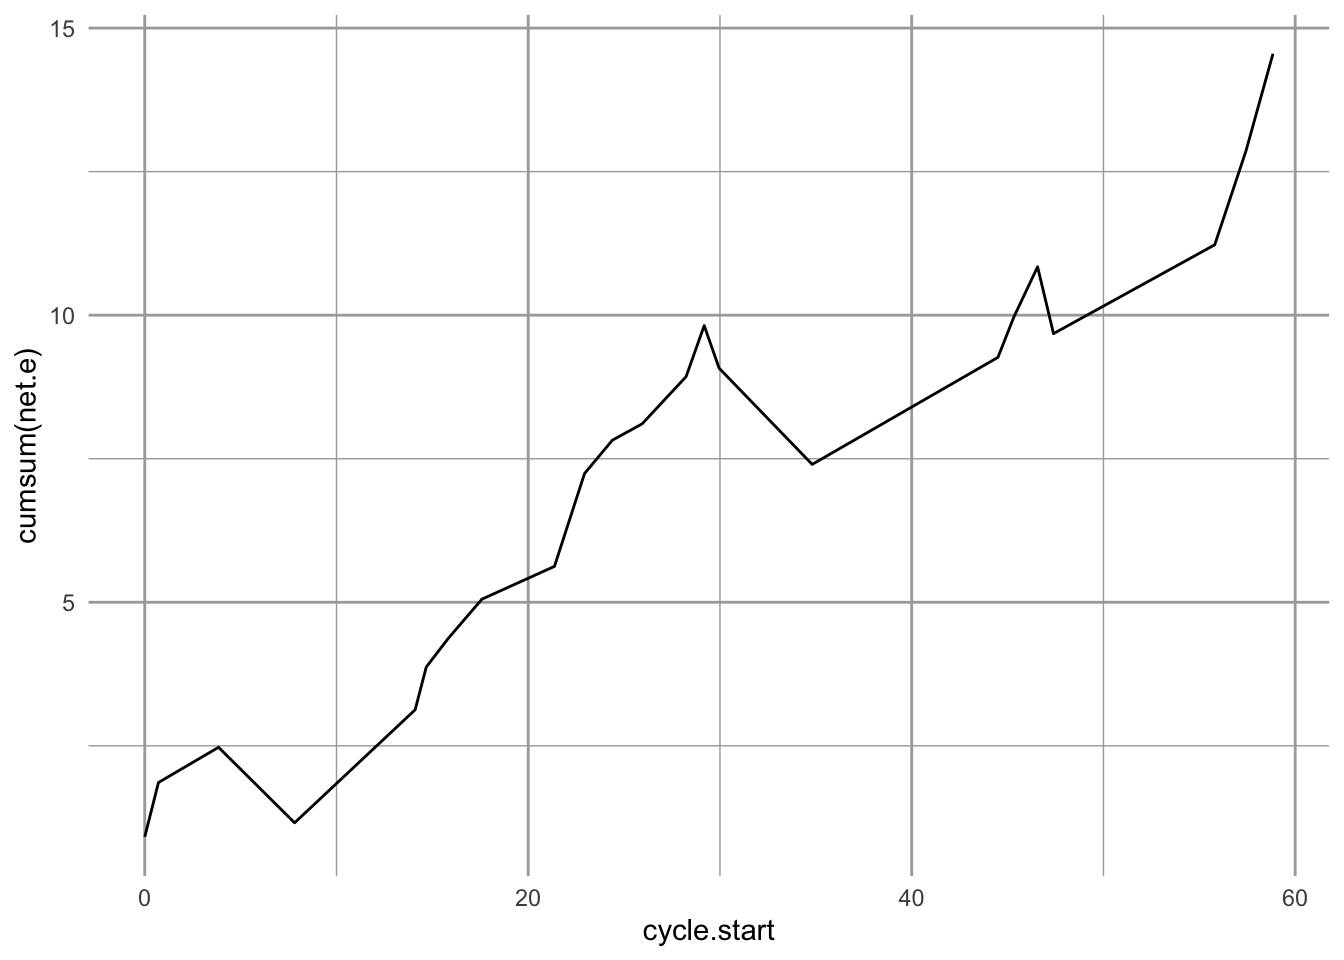
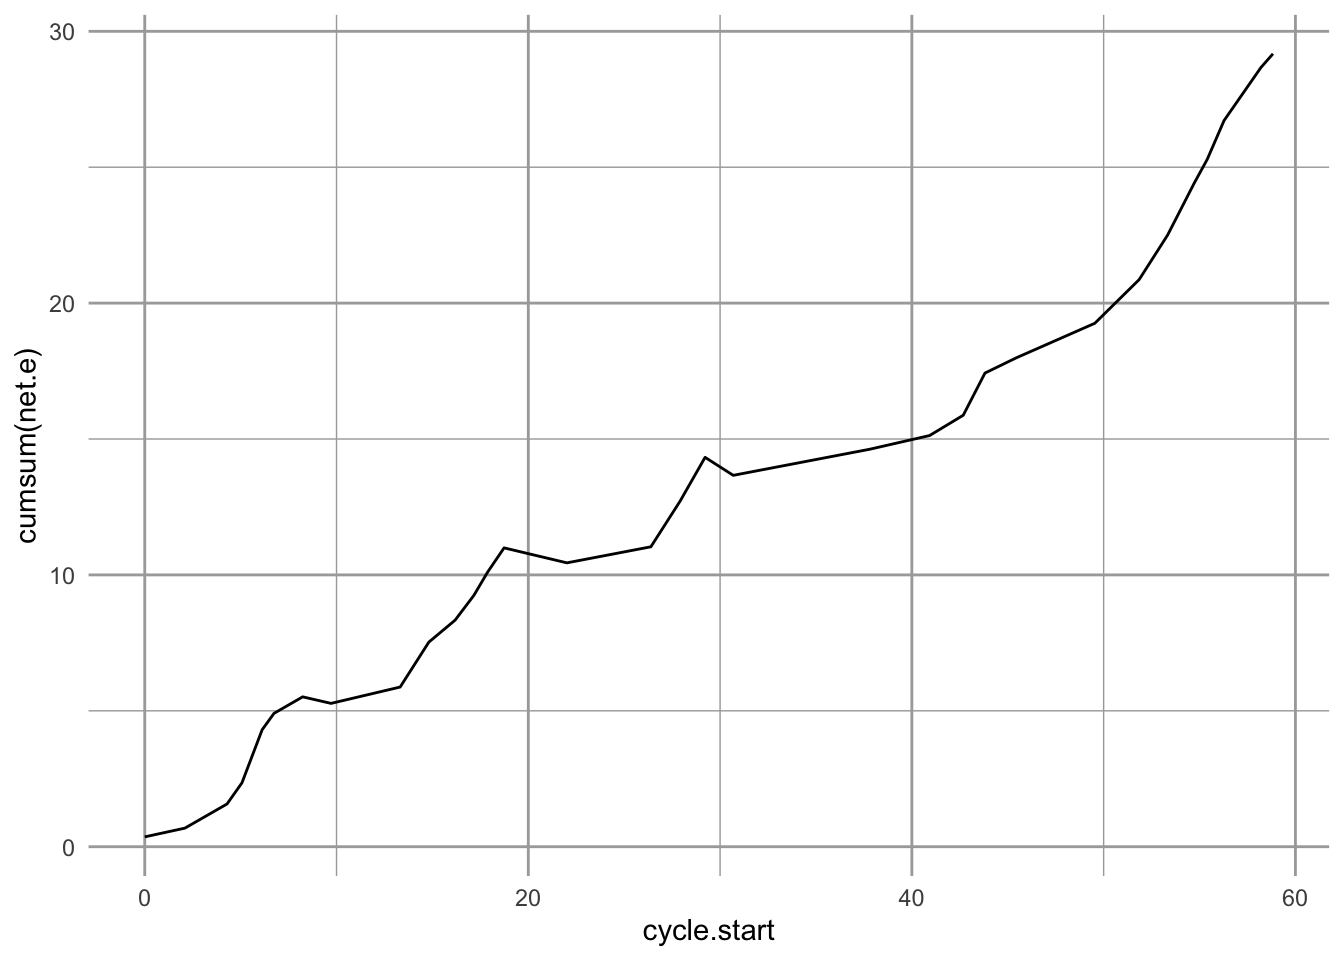
try 4

diff --git a/docs/oft.html b/docs/oft.html
@@ -389,12 +389,12 @@ Figure 2.5: Energy gain vs. time: The origin is when the forager enters the pat
 <div class="sourceCode" id="cb10"><pre class="sourceCode r"><code class="sourceCode r"><span id="cb10-1"><a href="oft.html#cb10-1"></a>myOut &lt;-<span class="st"> </span><span class="kw">optimal.forager</span>(<span class="dt">Total=</span><span class="dv">60</span>)</span>
 <span id="cb10-2"><a href="oft.html#cb10-2"></a><span class="kw">str</span>(myOut)</span></code></pre></div>
 <pre><code>## List of 5
-##  $ N     : num 23
-##  $ G     : num 14.6
-##  $ Tt    : num 60.1
-##  $ series:&#39;data.frame&#39;:	23 obs. of  2 variables:
-##   ..$ net.e      : num [1:23] 0.914 0.947 0.613 -1.315 1.968 ...
-##   ..$ cycle.start: num [1:23] 0 0.715 3.849 7.815 14.102 ...
+##  $ N     : num 32
+##  $ G     : num 29.2
+##  $ Tt    : num 60.6
+##  $ series:&#39;data.frame&#39;:	32 obs. of  2 variables:
+##   ..$ net.e      : num [1:32] 0.362 0.322 0.889 0.779 1.954 ...
+##   ..$ cycle.start: num [1:32] 0 2.09 4.29 5.07 6.12 ...
 ##  $ params:List of 7
 ##   ..$ e     : num [1:2] 2 1
 ##   ..$ h     : num [1:2] 0.5 0.5
